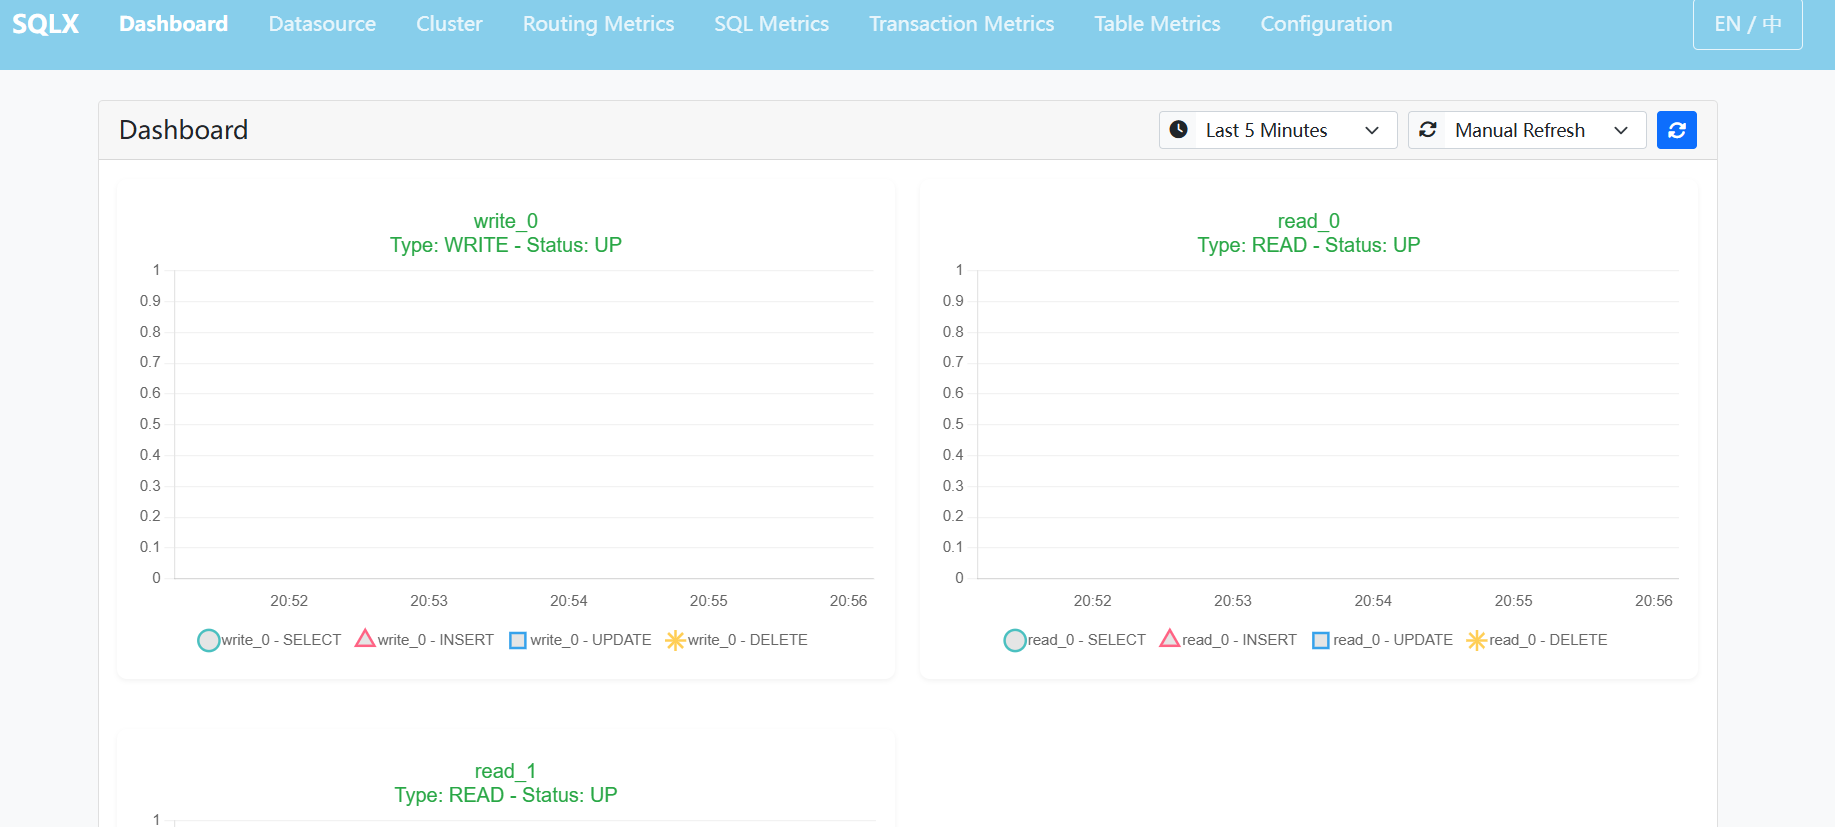
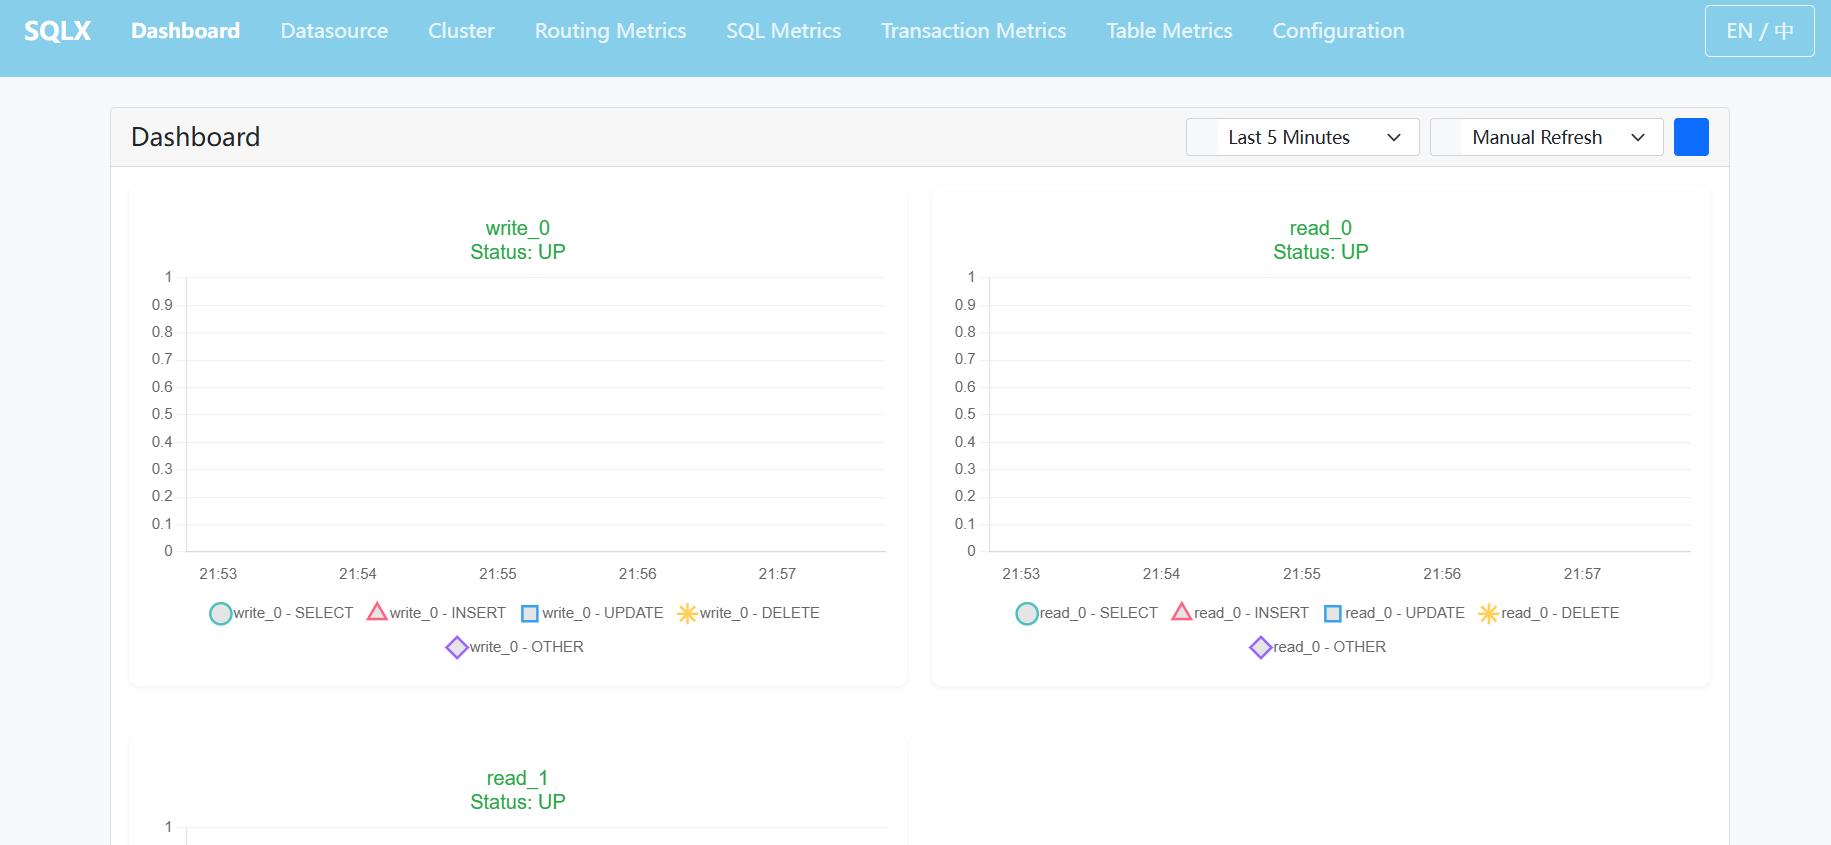
更新快速开始文档，优化 loadbalance 实现

diff --git a/src/main/java/com/github/sqlx/loadbalance/WeightRoundRobinLoadBalance.java b/src/main/java/com/github/sqlx/loadbalance/WeightRoundRobinLoadBalance.java
@@ -34,12 +34,15 @@ public class WeightRoundRobinLoadBalance extends AbstractLoadBalance {
     private Double maxWeight;
     private Double gcdWeight;
 
-    public WeightRoundRobinLoadBalance(Set<NodeAttribute> options) {
-        super(options);
+    public WeightRoundRobinLoadBalance() {
         this.currentIndex = -1;
         this.currentWeight = 0d;
         this.maxWeight = 0d;
         this.gcdWeight = 0d;
+    }
+
+    public WeightRoundRobinLoadBalance(Set<NodeAttribute> options) {
+        super(options);
     }
 
     @Override

diff --git a/src/main/java/com/github/sqlx/loadbalance/AbstractLoadBalance.java b/src/main/java/com/github/sqlx/loadbalance/AbstractLoadBalance.java
@@ -44,6 +44,9 @@ public abstract class AbstractLoadBalance implements LoadBalance {
      */
     private final Set<NodeAttribute> options = new HashSet<>();
 
+    protected AbstractLoadBalance() {
+    }
+
     /**
      * Constructs an AbstractLoadBalance instance with an initial list of nodes.
      * If the provided list is not empty, its elements are added to the internal options list.

diff --git a/src/main/java/com/github/sqlx/loadbalance/WeightRandomLoadBalance.java b/src/main/java/com/github/sqlx/loadbalance/WeightRandomLoadBalance.java
@@ -32,6 +32,10 @@ public class WeightRandomLoadBalance extends AbstractLoadBalance {
 
     private final Random random = new Random();
 
+    public WeightRandomLoadBalance() {
+
+    }
+
     public WeightRandomLoadBalance(Set<NodeAttribute> options) {
         super(options);
     }

diff --git a/doc/快速开始.md b/doc/快速开始.md
@@ -40,21 +40,27 @@ sqlx:
   config:
     enabled: true # 是否启用SQLX
     sql-parsing-fail-behavior: warning # SQL解析失败时的行为，支持 WARNING (警告)、FAILING (报错)、IGNORE (忽略)
-    cluster-enable: true # 是否启用集群模式
-    default-cluster: cluster_0 # 默认集群名称
     metrics:
       enabled: true # 是否启用监控功能
       username: admin # 监控用户名
       password: adminpw # 监控密码
       collect-scope: SLOW # 监控采集范围, 支持 SLOW (只采集慢SQL和慢事务)、ALL (采集所有)
+      enable-routing-metrics: true
+      enable-sql-metrics: true
+      enable-transaction-metrics: true
       slow-sql-millis: 300 # 慢 SQL 阈值，单位为毫秒
       slow-transaction-millis: 3000 # 慢事务阈值，单位为毫秒
-      file-directory: D:\test # 保存采集数据的文件目录
+      #      collect-mode: ASYNC # 采集方式，支持 SYNC (同步)、ASYNC (异步)
+      #      collect-core-pool-size: 10
+      #      collect-max-pool-size: 30
+      #      collect-keep-alive-millis: 10000
+      #      collect-queue-capacity: 3000
+      file-directory: /usr/local/sqlx-metrics # 保存采集数据的文件目录
       data-retention-duration: 2h # 数据保留时长，支持 s、m、h、d、w、M、y
     data-sources: # 数据源配置
       - name: write_0 # 数据源名称需唯一
-        type: write # 数据源类型，支持 WRITE (只写)、READ (只读)、READ_WRITE (可读写)、INDEPENDENT (独立数据源可读写)
         weight: 99 # 数据源权重，用于负载均衡
+        defaulted: true
         data-source-class: com.zaxxer.hikari.HikariDataSource
         init-method: init # 初始化方法
         destroy-method: close # 销毁方法
@@ -71,7 +77,6 @@ sqlx:
           isReadOnly: false
 
       - name: read_0
-        type: READ
         weight: 6
         data-source-class: com.zaxxer.hikari.HikariDataSource
         init-method: init
@@ -89,7 +94,6 @@ sqlx:
           isReadOnly: true
 
       - name: read_1
-        type: READ
         weight: 10
         data-source-class: com.zaxxer.hikari.HikariDataSource
         init-method: init
@@ -107,9 +111,18 @@ sqlx:
           isReadOnly: true
     clusters: # 集群配置
       - name: cluster_0 # 集群名称需唯一
-        nodes: # 集群中包含的节点,配置数据源名称
+        defaulted: true # 当存在多个集群时指定是否是默认集群
+        writable-nodes:
           - write_0
+        readable-nodes:
           - read_0
+          - read_1
+          - write_0
+      - name: cluster_1
+        writable-nodes:
+          - write_0
+        readable-nodes:
+          - read_1
 
     pointcuts: # SQL 路由切入点配置,该方法内的 SQL 会被路由到指定的集群和节点
       - expression: "execution(* com.foo.ServiceA.fun1())" # 切入点表达式，支持 Spring AOP 的切入点表达式
@@ -118,6 +131,14 @@ sqlx:
           - write_0
           - read_0
         propagation: true # 是否接受上层方法传播
+      - expression: "execution(* com.foo.ServiceA.fun2())"
+        cluster: cluster_0
+        nodes:
+          - write_0
+          - read_0
+          - read_1
+        propagation: true
+```
 
 ## 4. 启动项目
 
